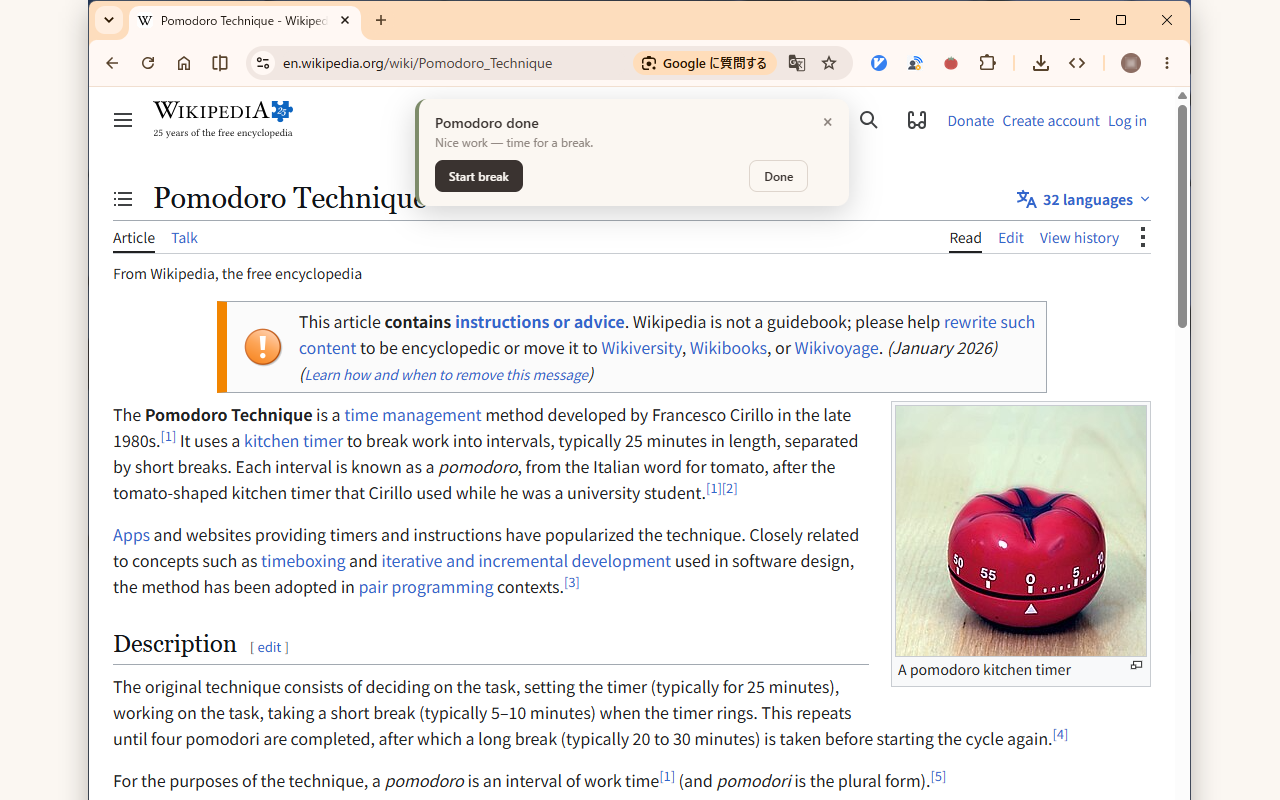
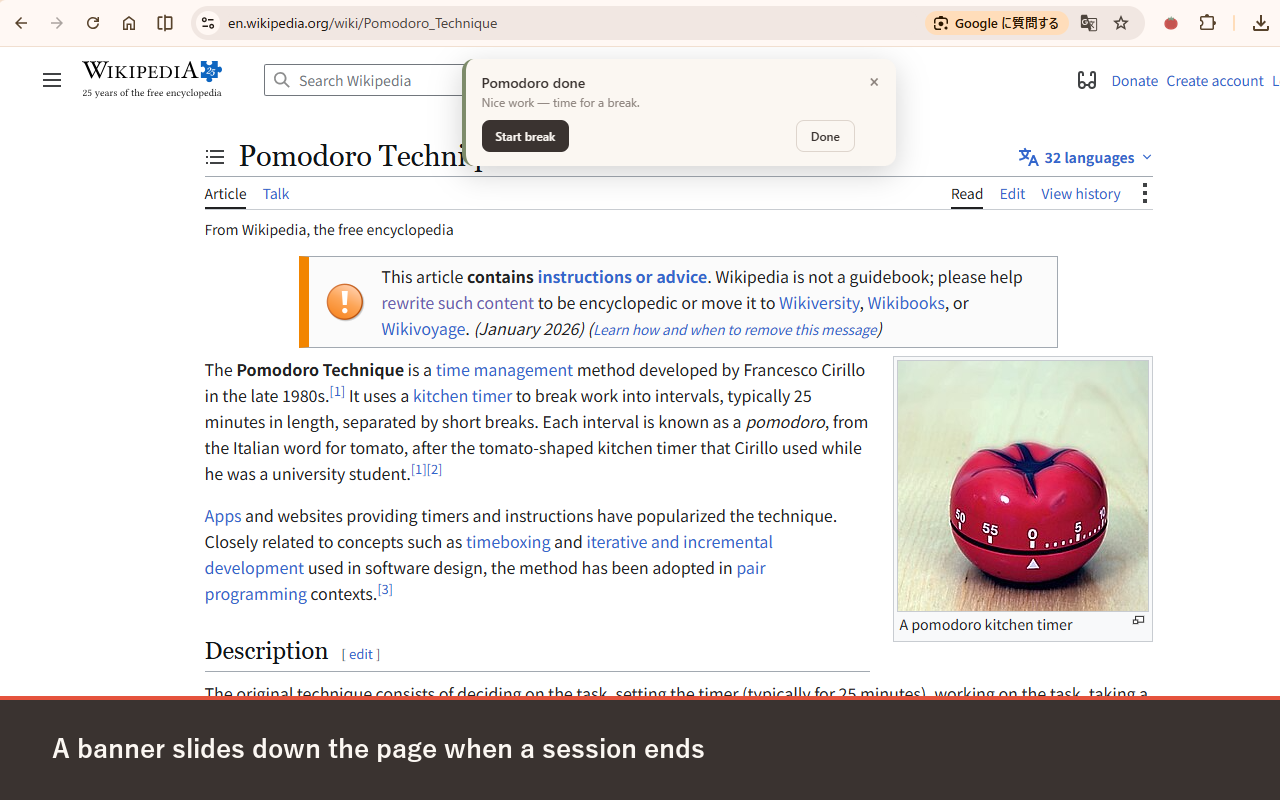
Store screenshots: retake at native 1280x800, add caption band
- 5 shots (timer / banner / pop-out / settings / dark) x JA/EN, browser
  maximised on the Pomodoro Technique article, full-width caption band
  burned in (dev/caption_shots.py regenerates from dev/store/raw/)
- Detailed description: dedicated "keep the timer on screen" section
- Drop the break/green shot (store allows 5)

diff --git a/dev/caption_shots.py b/dev/caption_shots.py
@@ -1,0 +1,56 @@
+"""Burn a full-width caption band into each store screenshot.
+Raws are already 1280x800; output keeps that size. ss05 (green) is unused."""
+
+import os
+from PIL import Image, ImageDraw, ImageFont
+
+SRC = r"D:\Create\Tools\tomato-pop\dev\store\raw"
+OUT = r"D:\Create\Tools\tomato-pop\dev\store"
+FONT_PATH = r"C:\Windows\Fonts\YuGothB.ttc"
+
+CREAM = (251, 247, 242)
+CHARCOAL = (58, 51, 48)
+TOMATO = (229, 83, 61)
+
+BAND_H = 104
+
+SHOTS = [
+    ("ss01", "1-timer",
+     "画面で知らせるポモドーロタイマー",
+     "A Pomodoro timer that tells you on the screen"),
+    ("ss03", "2-banner",
+     "終了を、見ているページの上部でお知らせ",
+     "A banner slides down the page when a session ends"),
+    ("ss04", "3-popout",
+     "タイマーを切り離して、常に画面に表示",
+     "Pop the timer out to keep it on screen"),
+    ("ss02", "4-settings",
+     "時間・音・言語をこまかく設定",
+     "Tune the timers, sound, and language"),
+    ("ss06", "5-dark",
+     "ライト / ダークに自動で対応",
+     "Adapts to light and dark automatically"),
+]
+
+
+def add_band(img, text):
+    w, h = img.size
+    d = ImageDraw.Draw(img)
+    top = h - BAND_H
+    d.rectangle([0, top, w, h], fill=CHARCOAL)
+    d.rectangle([0, top, w, top + 3], fill=TOMATO)  # brand accent line
+
+    font = ImageFont.truetype(FONT_PATH, 26, index=0)
+    bbox = d.textbbox((0, 0), text, font=font)
+    ty = top + (BAND_H - (bbox[3] - bbox[1])) // 2 - bbox[1] + 2
+    d.text((52 - bbox[0], ty), text, font=font, fill=CREAM)
+    return img
+
+
+for raw, name, ja, en in SHOTS:
+    for lang, cap in (("ja", ja), ("en", en)):
+        src = os.path.join(SRC, f"{raw}_{lang}.png")
+        im = add_band(Image.open(src).convert("RGB"), cap)
+        dst = os.path.join(OUT, f"{name}-{lang}.png")
+        im.save(dst)
+        print(f"{raw}_{lang}  ->  dev/store/{name}-{lang}.png")
